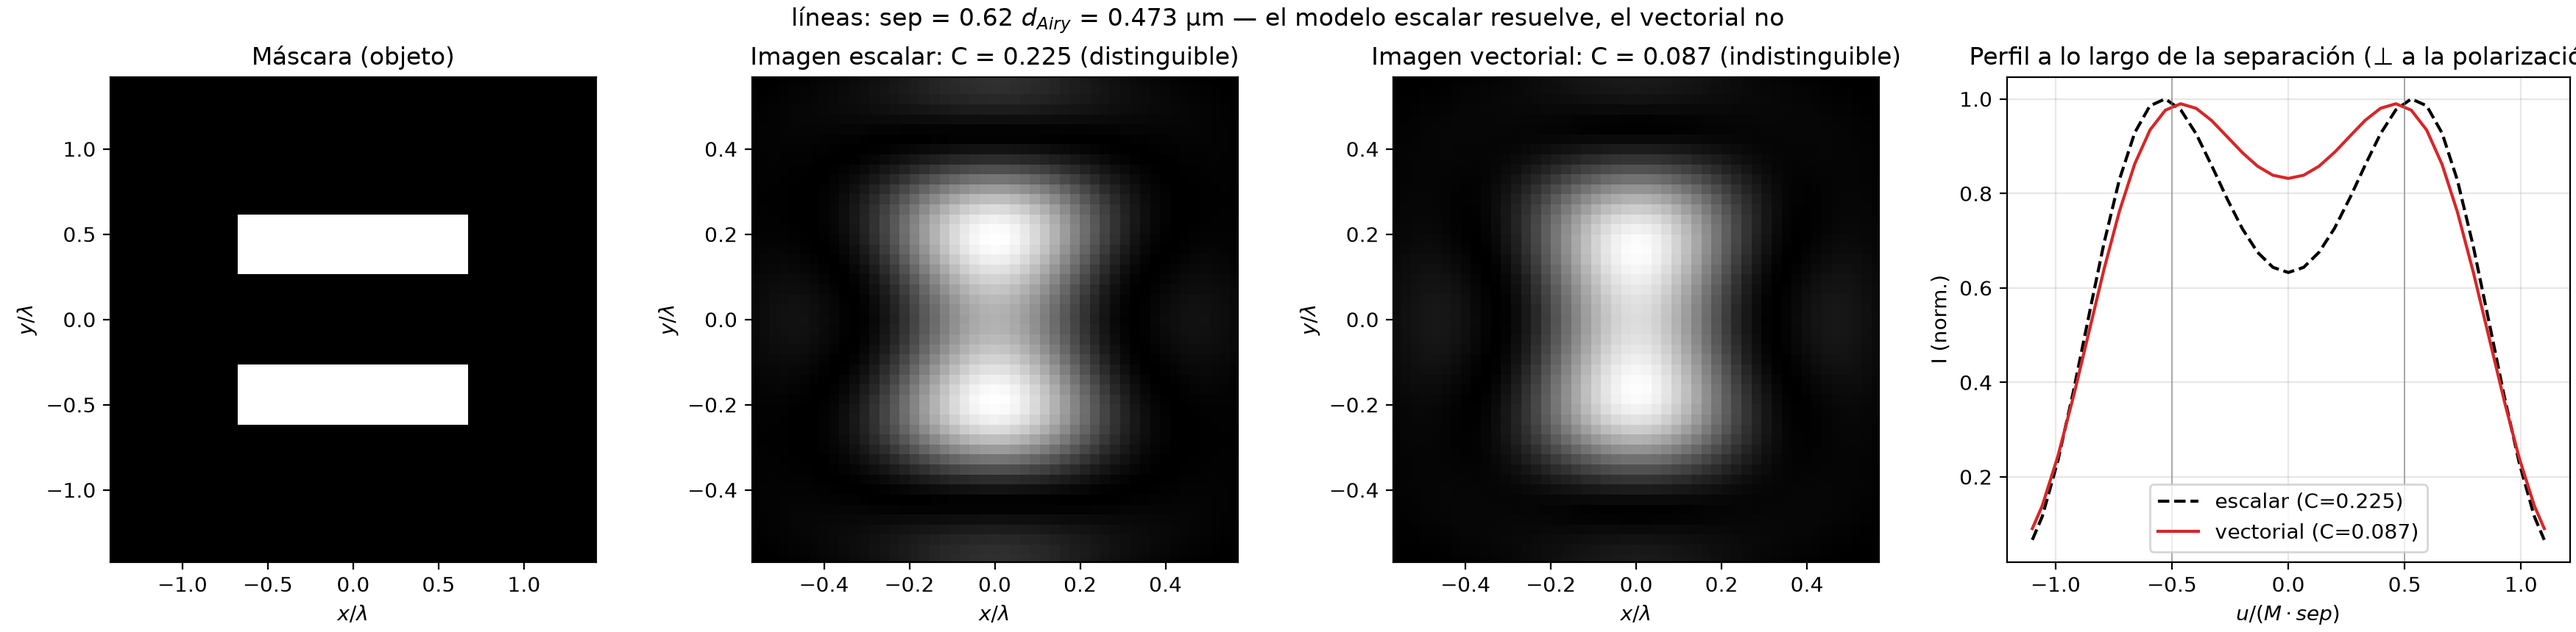
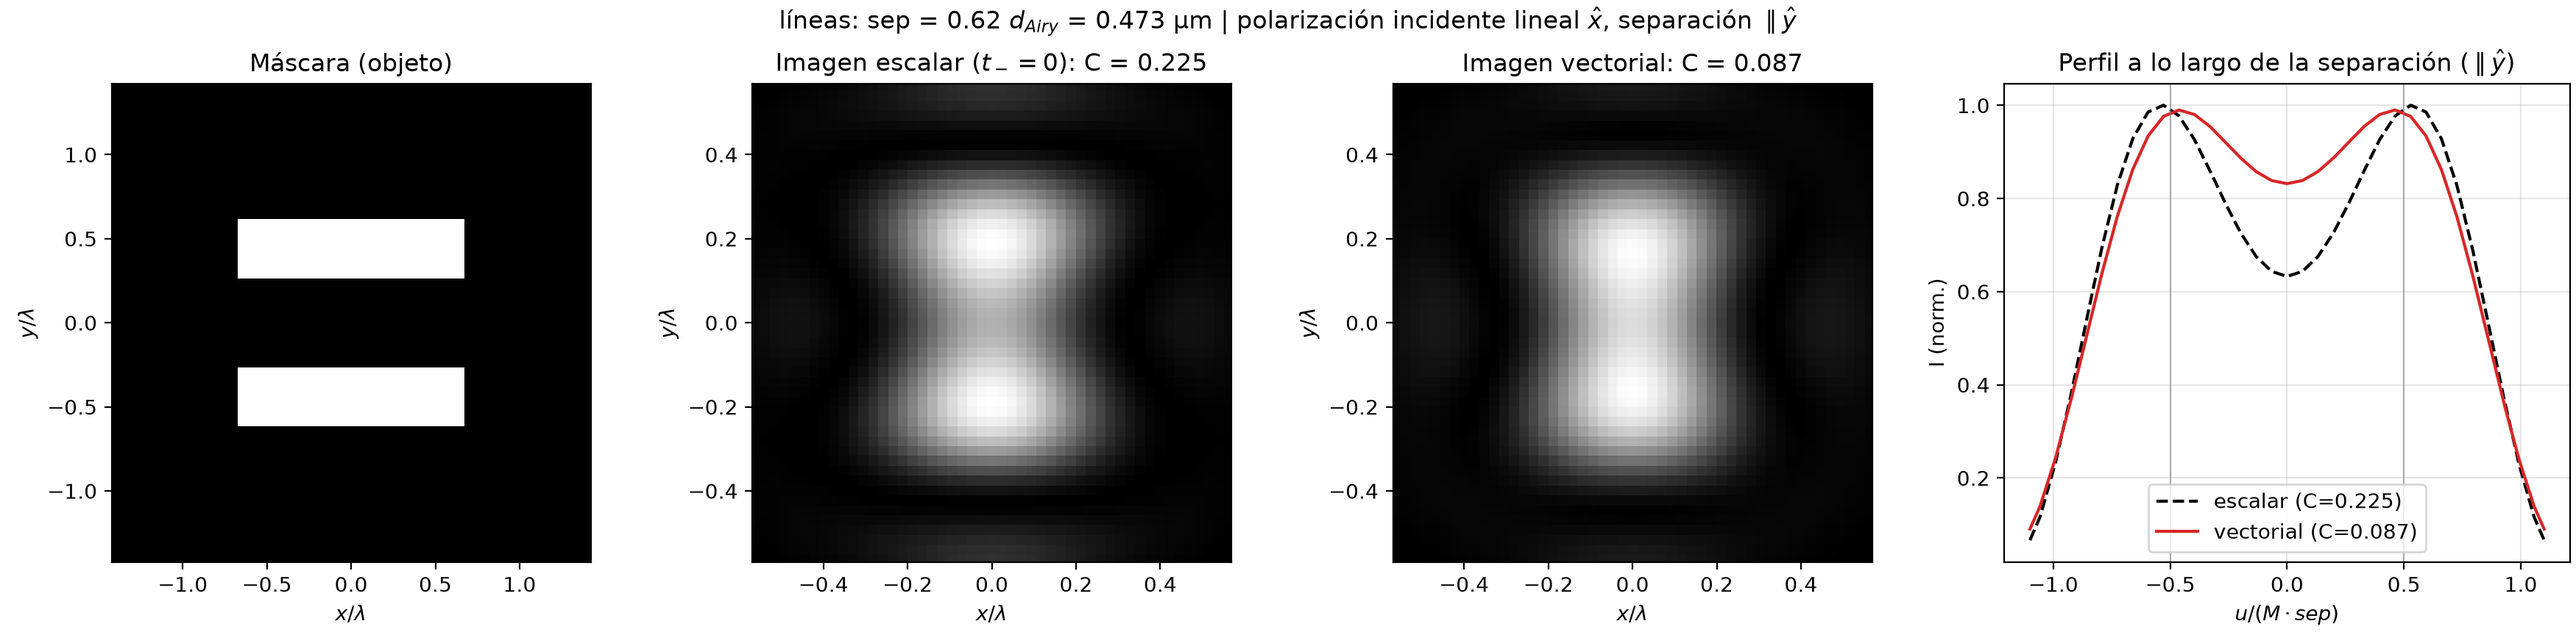
Neutral figure titles with incident polarization; image polarization analysis
- Figure titles across studies 1-4 no longer state conclusions
  ("distinguible/indistinguible", "el escalar resuelve...") and now
  declare the incident polarization (linear x) explicitly.
- Study 4 showcases gain a polarization analysis of the image plane
  using vecdiff.polarization: |Ex|^2 / |Ey|^2 components, Stokes-derived
  orientation psi and ellipticity chi maps, and local polarization
  ellipses, comparing scalar vs vectorial rows.
  Findings: scalar image is uniformly x-polarized (Ey = 0, psi = chi = 0);
  the vectorial image carries f_cross ~ 1.5e-2, a four-lobe cross channel
  anchored at feature corners, |chi| < ~1 deg everywhere bright (the
  cross light is nearly in phase with the co-polar field, which is why
  the valley filling is first order), and a quadrupolar rotation of the
  polarization plane reaching ~35 deg on the faint side lobes.
- CONCLUSIONS.md extended and curated figures refreshed.

diff --git a/investigation/focal_plane_aperture_study/study_4_resolution_inversion.py b/investigation/focal_plane_aperture_study/study_4_resolution_inversion.py
@@ -32,6 +32,9 @@ import common
 import imaging_common as ic
 from imaging_common import LAM
 
+from vecdiff.polarization import polarization_from_field
+from vecdiff.polarization_visualization import plot_field_polarization
+
 R_A = 10.0
 D2_FAST = dict(n0=ic.D1["ni"], ni=1.0, z0=-ic.D1["zi"], zi=0.6)
 MAG = ic.mag_of(D2_FAST)
@@ -119,7 +122,7 @@ for axi, feature in zip(axes, ("discs", "lines")):
     s2 = crossing(S_FRACS, c_vec, C_TH[feature])
     if np.isfinite(s1) and np.isfinite(s2) and s2 > s1:
         axi.axvspan(s1, s2, color="gold", alpha=0.35,
-                    label="escalar sí / vectorial no")
+                    label=r"ventana $C_{esc} \geq C_{th} > C_{vec}$")
     axi.axhline(C_TH[feature], color="k", lw=0.8, ls=":")
     axi.axhline(0.0, color="k", lw=0.8)
     axi.set_xlabel(r"separación [$d_{Airy}$]")
@@ -130,7 +133,8 @@ for axi, feature in zip(axes, ("discs", "lines")):
     axi.grid(True, alpha=0.3)
     axi.legend(fontsize=8)
 fig.suptitle(
-    rf"Inversión de resolución | $r_a$={R_A} mm, D2 rápida ($z_i$={D2_FAST['zi']})")
+    rf"Contraste del valle vs separación | $r_a$={R_A} mm, D2 rápida ($z_i$={D2_FAST['zi']}) | "
+    r"polarización incidente lineal $\hat{x}$")
 fig.savefig(out / "fig1_inversion_window.png", dpi=220)
 plt.close(fig)
 
@@ -178,10 +182,10 @@ for feature, figname in (("discs", "fig2_showcase_discs.png"),
     axes[0].set_ylim(-lim / MAG, lim / MAG)
     im1 = axes[1].imshow((I_s / vmax) ** 0.8, extent=extent, origin="lower",
                          cmap="gray", vmin=0, vmax=1)
-    axes[1].set_title(f"Imagen escalar: C = {Cs:.3f} (distinguible)")
+    axes[1].set_title(f"Imagen escalar ($t_-=0$): C = {Cs:.3f}")
     im2 = axes[2].imshow((I_v / vmax) ** 0.8, extent=extent, origin="lower",
                          cmap="gray", vmin=0, vmax=1)
-    axes[2].set_title(f"Imagen vectorial: C = {Cv:.3f} (indistinguible)")
+    axes[2].set_title(f"Imagen vectorial: C = {Cv:.3f}")
     for axi in axes[1:3]:
         axi.set_xlim(-lim, lim)
         axi.set_ylim(-lim, lim)
@@ -197,17 +201,89 @@ for feature, figname in (("discs", "fig2_showcase_discs.png"),
         axes[3].axvline(s, color="gray", lw=0.7, alpha=0.6)
     axes[3].set_xlabel(r"$u / (M \cdot sep)$")
     axes[3].set_ylabel("I (norm.)")
-    axes[3].set_title("Perfil a lo largo de la separación (⊥ a la polarización)")
+    axes[3].set_title(r"Perfil a lo largo de la separación ($\parallel \hat{y}$)")
     axes[3].grid(True, alpha=0.3)
     axes[3].legend()
 
     label = "discos" if feature == "discs" else "líneas"
     fig.suptitle(
-        rf"{label}: sep = {s_frac:.2f} $d_{{Airy}}$ = {sep*1e3:.3f} µm — "
-        rf"el modelo escalar resuelve, el vectorial no")
+        rf"{label}: sep = {s_frac:.2f} $d_{{Airy}}$ = {sep*1e3:.3f} µm | "
+        r"polarización incidente lineal $\hat{x}$, separación $\parallel \hat{y}$")
     fig.savefig(out / figname, dpi=200)
     plt.close(fig)
     print(f"{feature}: showcase en sep = {s_frac:.2f} dAiry "
           f"(C_sca = {Cs:.3f}, C_vec = {Cv:.3f})")
+
+    # -------------------------------------------------------------- #
+    #  Polarization analysis of the showcase images                    #
+    # -------------------------------------------------------------- #
+    polfig = "fig4_polarization_discs.png" if feature == "discs" else "fig5_polarization_lines.png"
+    fig, axes = plt.subplots(2, 5, figsize=(21, 7.8), constrained_layout=True)
+
+    # Shared color scales taken from the vectorial image.
+    pol_v = polarization_from_field(E_v)
+    bright_v = pol_v.s0 > 0.02 * pol_v.s0.max()
+    iy_lim = float((np.abs(pol_v.ey) ** 2 / vmax).max())
+    psi_lim = max(5.0, float(np.nanpercentile(
+        np.abs(np.degrees(np.where(bright_v, pol_v.psi, np.nan))), 99)))
+    chi_lim = max(1.0, 1.2 * float(np.nanmax(
+        np.abs(np.degrees(np.where(bright_v, pol_v.chi, np.nan))))))
+
+    from vecdiff import FieldCartesian, Grid
+
+    for row_i, (E, tag) in enumerate(((E_s, "escalar ($t_-=0$)"), (E_v, "vectorial"))):
+        pol = polarization_from_field(E)
+        Ix = np.abs(pol.ex) ** 2
+        Iy = np.abs(pol.ey) ** 2
+        s0 = pol.s0
+        bright = s0 > 0.02 * s0.max()
+        f_cross_img = float(Iy.sum() / (s0.sum() + 1e-300))
+
+        im = axes[row_i, 0].imshow((Ix / vmax) ** 0.8, extent=extent, origin="lower",
+                                   cmap="gray", vmin=0, vmax=1)
+        axes[row_i, 0].set_title(rf"{tag}: $|E_x|^2$ (copolar)")
+        fig.colorbar(im, ax=axes[row_i, 0], fraction=0.046, pad=0.04)
+
+        im = axes[row_i, 1].imshow(Iy / vmax, extent=extent, origin="lower", cmap="magma",
+                                   vmin=0.0, vmax=iy_lim)
+        axes[row_i, 1].set_title(rf"$|E_y|^2$ (cruzada), $f_{{cross}}$ = {f_cross_img:.1e}")
+        fig.colorbar(im, ax=axes[row_i, 1], fraction=0.046, pad=0.04)
+
+        psi = np.where(bright, np.degrees(pol.psi), np.nan)
+        im = axes[row_i, 2].imshow(psi, extent=extent, origin="lower",
+                                   cmap="RdBu_r", vmin=-psi_lim, vmax=psi_lim)
+        axes[row_i, 2].set_title(r"orientación $\psi$ [$^\circ$]")
+        fig.colorbar(im, ax=axes[row_i, 2], fraction=0.046, pad=0.04)
+
+        chi = np.where(bright, np.degrees(pol.chi), np.nan)
+        im = axes[row_i, 3].imshow(chi, extent=extent, origin="lower",
+                                   cmap="RdBu_r", vmin=-chi_lim, vmax=chi_lim)
+        axes[row_i, 3].set_title(r"elipticidad $\chi$ [$^\circ$]")
+        fig.colorbar(im, ax=axes[row_i, 3], fraction=0.046, pad=0.04)
+
+        # Glyph panel in wavelength units with peak-normalized intensity.
+        E_lam = FieldCartesian(
+            x=E.x / np.sqrt(vmax), y=E.y / np.sqrt(vmax),
+            grid=Grid.from_cartesian(E.grid.X / LAM, E.grid.Y / LAM),
+            symmetric=False)
+        plot_field_polarization(
+            E_lam, half_size=1.05 * lim, n_img=220, sampling="cartesian",
+            target_ellipses=13, min_intensity_fraction=0.02,
+            ax=axes[row_i, 4],
+        )
+        axes[row_i, 4].set_title("elipses de polarización")
+
+        for axi in axes[row_i, :]:
+            axi.set_xlim(-lim, lim)
+            axi.set_ylim(-lim, lim)
+            axi.set_xlabel(r"$x/\lambda$")
+            axi.set_ylabel(r"$y/\lambda$")
+
+    fig.suptitle(
+        rf"Polarización de la imagen | {label}, sep = {s_frac:.2f} $d_{{Airy}}$, "
+        r"polarización incidente lineal $\hat{x}$")
+    fig.savefig(out / polfig, dpi=180)
+    plt.close(fig)
+    print(f"{feature}: análisis de polarización -> {polfig}")
 
 print(f"Done. Outputs in {out}")

diff --git a/investigation/focal_plane_aperture_study/study_2_maximize_cross.py b/investigation/focal_plane_aperture_study/study_2_maximize_cross.py
@@ -165,7 +165,7 @@ axes[2].set_title("Compromiso eficiencia vs componente cruzada")
 axes[2].grid(True, which="both", alpha=0.3)
 axes[2].legend()
 
-fig.suptitle("Maximización de la componente cruzada (Fresnel exacto, rama física del óvalo)")
+fig.suptitle(r"Componente cruzada vs índice y pupila (Fresnel exacto, rama física del óvalo) | pol. incidente lineal $\hat{x}$")
 fig.savefig(out / "fig1_maximization.png", dpi=220)
 plt.close(fig)
 
@@ -201,9 +201,10 @@ for axi, (img, cmap, title, clim) in zip(axes, panels):
     axi.set_ylabel(r"$y/\lambda$")
     fig.colorbar(im, ax=axi, fraction=0.046, pad=0.04)
 fig.suptitle(
-    rf"Mejor configuración: $n_i$={best_entry['ni']}, $\epsilon$={best_entry['eps']}, "
+    rf"$n_i$={best_entry['ni']}, $\epsilon$={best_entry['eps']}, "
     rf"$p$={best_entry['p']}, a={best_entry['a']:.2f} mm  |  "
-    rf"$f_{{cross}}$={best_entry['f_cross']:.3f}, throughput={best_entry['throughput']:.3f}"
+    rf"$f_{{cross}}$={best_entry['f_cross']:.3f}, throughput={best_entry['throughput']:.3f}  |  "
+    r"pol. incidente lineal $\hat{x}$"
 )
 fig.savefig(out / "fig2_best_config_maps.png", dpi=200)
 plt.close(fig)
@@ -233,7 +234,7 @@ for axi, img, title in zip(axes, (clover, ring),
     axi.set_xlabel(r"$x/\lambda$")
     axi.set_ylabel(r"$y/\lambda$")
     fig.colorbar(im, ax=axi, fraction=0.046, pad=0.04)
-fig.suptitle("Forma del canal cruzado según la base de polarización (misma energía)")
+fig.suptitle(r"Canal cruzado: entrada lineal $\hat{x}$ vs entrada circular $L$")
 fig.savefig(out / "fig3_cross_channel_shape.png", dpi=200)
 plt.close(fig)
 

diff --git a/investigation/focal_plane_aperture_study/study_3_imaging.py b/investigation/focal_plane_aperture_study/study_3_imaging.py
@@ -137,7 +137,7 @@ ax3.set_xlabel(r"radio de pupila $r_a$ [mm]")
 ax3.set_title("Diferencia global escalar/vectorial")
 ax3.grid(True, which="both", alpha=0.3)
 ax3.legend(fontsize=8)
-fig.suptitle("Formación de imágenes: escalar ($t_-=0$) vs vectorial")
+fig.suptitle(r"Formación de imágenes: escalar ($t_-=0$) vs vectorial | polarización incidente lineal $\hat{x}$")
 fig.savefig(out / "fig1_contrast_vs_aperture.png", dpi=220)
 plt.close(fig)
 
@@ -185,7 +185,7 @@ for name in orientations:
         axi.set_xlim(-lim, lim)
         axi.set_ylim(-lim, lim)
         fig.colorbar(im, ax=axi, fraction=0.046, pad=0.04)
-    fig.suptitle(f"Imágenes con r_a = {r_a} mm, orientación {name}")
+    fig.suptitle(rf"Imágenes con r_a = {r_a} mm, orientación {name} | pol. incidente lineal $\hat{{x}}$")
     fig.savefig(out / f"fig2_gallery_{name}_ra{str(r_a).replace('.', 'p')}.png", dpi=200)
     plt.close(fig)
 
@@ -212,7 +212,7 @@ for row_i, name in enumerate(orientations):
         ax.set_xlabel(r"$u / (M \cdot sep)$")
         ax.grid(True, alpha=0.3)
 axes[0, 0].legend()
-fig.suptitle("Perfiles a través de las dos líneas: escalar vs vectorial")
+fig.suptitle(r"Perfiles a través de las dos líneas: escalar vs vectorial | pol. incidente lineal $\hat{x}$")
 fig.savefig(out / "fig3_profiles.png", dpi=200)
 plt.close(fig)
 

diff --git a/investigation/focal_plane_aperture_study/study_1_aperture_sweep.py b/investigation/focal_plane_aperture_study/study_1_aperture_sweep.py
@@ -129,7 +129,8 @@ ax[1, 1].set_title("Transmisión y radio de energía encerrada")
 ax[1, 1].grid(True, alpha=0.3)
 ax[1, 1].legend()
 
-fig.suptitle(rf"Barrido de apertura | $n_0$={N0}, $n_i$={NI}, $z_0$={Z0}, $z_i$={ZI} (Fresnel exacto)")
+fig.suptitle(rf"Barrido de apertura | $n_0$={N0}, $n_i$={NI}, $z_0$={Z0}, $z_i$={ZI} (Fresnel exacto) | "
+             r"polarización incidente lineal $\hat{x}$")
 fig.savefig(out / "fig1_metrics_vs_aperture.png", dpi=220)
 plt.close(fig)
 
@@ -184,7 +185,8 @@ for a in selected:
     fig.suptitle(
         rf"a = {a:.2f} mm  ($\alpha_{{obj}}$ = {row['alpha_obj_deg']:.1f}$^\circ$, "
         rf"$\theta_{{img}}$ = {row['theta_img_deg']:.1f}$^\circ$)  |  "
-        rf"$f_{{cross}}$ = {row['f_cross']:.2e}, elipticidad = {row['ellipticity']:.3f}"
+        rf"$f_{{cross}}$ = {row['f_cross']:.2e}, elipticidad = {row['ellipticity']:.3f}  |  "
+        r"pol. incidente lineal $\hat{x}$"
     )
     tag = f"{a:.2f}".replace(".", "p")
     fig.savefig(out / f"fig3_maps_a{tag}.png", dpi=200)

diff --git a/investigation/focal_plane_aperture_study/CONCLUSIONS.md b/investigation/focal_plane_aperture_study/CONCLUSIONS.md
@@ -166,6 +166,31 @@ Criterio de distinguibilidad: profundidad de valle C ≥ C_th.
 ![showcase discos](results/s4_showcase_discs.png)
 ![showcase líneas](results/s4_showcase_lines.png)
 
+### Análisis de polarización de las imágenes
+
+Para cada escaparate se analiza el estado de polarización de la imagen
+(componentes, parámetros de Stokes → orientación ψ y elipticidad χ, y elipses
+locales con las utilidades de `vecdiff.polarization`):
+
+![polarización discos](results/s4_polarization_discs.png)
+![polarización líneas](results/s4_polarization_lines.png)
+
+- **Imagen escalar:** polarización uniforme — E_y ≡ 0, ψ ≡ 0, χ ≡ 0 en todo el
+  plano; las elipses son segmentos horizontales alineados con la polarización
+  incidente x̂.
+- **Imagen vectorial:** la fracción cruzada de la imagen es
+  **f_cross ≈ 1.5×10⁻²** (dos órdenes por encima del sistema lento del
+  Estudio 3). |E_y|² forma el trébol de cuatro lóbulos anclado a las esquinas
+  de cada característica.
+- **La luz cruzada está casi en fase con la copolar:** la elipticidad se
+  mantiene |χ| ≲ 1° en toda la zona brillante — el campo sigue siendo casi
+  lineal. El efecto dominante es una **rotación del plano de polarización**:
+  ψ alcanza ±35° en los flancos laterales (donde el copolar es débil) con un
+  patrón cuadrupolar antisimétrico, y unos pocos grados dentro de los lóbulos
+  brillantes. Esa coherencia de fase entre A y B es justo lo que hace el
+  llenado del valle un efecto de primer orden (2·Re(A·B*)) y no de segundo
+  (|B|²).
+
 ## Síntesis
 
 1. Al abrir la apertura, la componente cruzada crece como la **cuarta potencia** del
